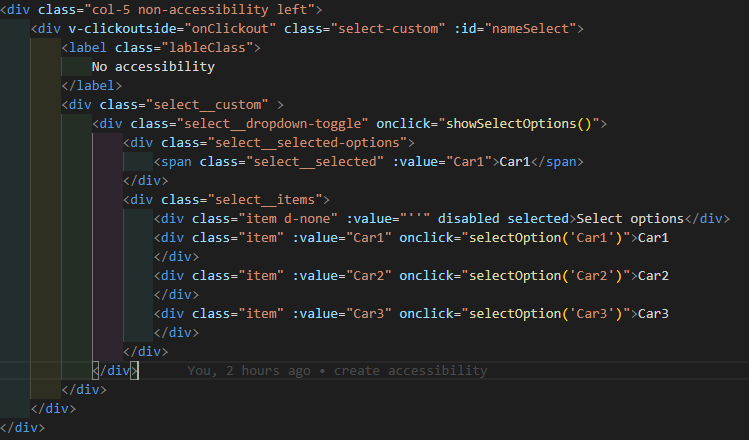
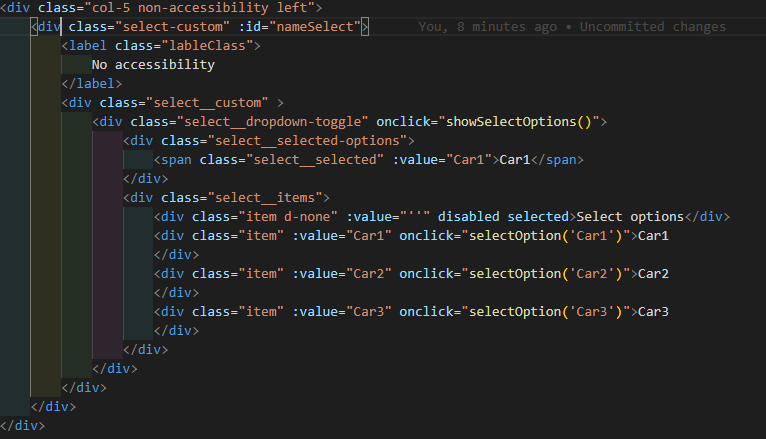
update select box

Changed region(s): [[0.0, 0.0, 0.9826, 1.0], [0.2457, 0.8292, 0.6449, 0.8588]]

diff --git a/Select-option/index.html b/Select-option/index.html
@@ -35,6 +35,9 @@
             width: 50%;
             padding: 0 15px;
         }
+        .active {
+            background-color: gray;
+        }
     </style>
 </head>
 <body style="margin-top: 30px">
@@ -42,7 +45,7 @@
     <a href="../index.html" type="button" class="btn btn-primary" style="margin-bottom: 10px;">Back</a>
         <div class="row" style="height: 200px;">
             <div class="col-5 non-accessibility left">
-                <div v-clickoutside="onClickout" class="select-custom" :id="nameSelect">
+                <div class="select-custom" :id="nameSelect">
                     <label class="lableClass">
                         No accessibility
                     </label>
@@ -68,13 +71,21 @@
                 <button type="button" class="btn btn-primary" onclick="handleClick()">Có accessibility</button>
             </div>
             <div class="col-5 accessibility right" style="display: none">
-                <label for="" style="display: block;">Accessibility</label>
-                <select name="" id="" style="width: 50%">
-                    <option value="1">Car1</option>
-                    <option value="2">Car2</option>
-                    <option value="3">Car3</option>
-                    <option value="4">Car4</option>
-                </select>
+                <div class="select-custom" :id="nameSelect">
+                    <label class="lableClass">
+                        Accessibility
+                    </label>
+                    <div class="select__custom" >
+                        <div class="select__dropdown-toggle" onclick="showSelectOptions1()" tabindex="0">
+                            <div class="select__selected-options">
+                                <span class="select__selected" :value="Car1">Car1</span>
+                            </div>
+                            <div class="select__items" id="list-item">
+                        
+                            </div>
+                        </div>
+                    </div>
+                </div>
             </div>
         </div>
         <div class="row">
@@ -96,7 +107,8 @@
             <div class="col-1"></div>
             <div class="col-5 right">
                 <h2>Non-Accessibility</h2>
-                <img src="./select-option2.PNG" alt="">
+                <img src="./select-option2.PNG" alt="" style="margin-bottom: 20px">
+                <img src="./select-option3.PNG" alt="">
             </div>
         </div>
     </div>
@@ -107,6 +119,50 @@
 
     <script>
         var ariaLabel = document.querySelector('.right');
+        var selectBox = document.querySelector('.accessibility .select__dropdown-toggle');
+        let currentItem = 0;
+        let listItemDropdown = [
+            { name: "Car 1" , value: "car1" },
+            { name: "Car 2" , value: "car2" },
+            { name: "Car 3" , value: "car3" }
+        ]
+        selectBox.addEventListener("keydown", function (e) {
+            if (e.keyCode === 13) {  //checks whether the pressed key is "Enter"
+                showSelectOptions1();
+                document.querySelector('.accessibility .select__selected-options .select__selected').innerHTML = listItemDropdown[currentItem].name;
+            }
+            if (e.keyCode === 38) { // up
+                currentItem -= 1;
+                if (currentItem <= 0) {
+                    currentItem = 0;
+                }
+            }
+            if (e.keyCode === 40) { // down
+                currentItem += 1;
+                if (currentItem >= listItemDropdown.length-1) {
+                    currentItem = listItemDropdown.length-1;
+                }
+            }
+            setActive();
+        });
+
+        function setActive() {
+            $('.accessibility .select__items .item').removeClass('active');
+            document.querySelectorAll('.accessibility .select__items .item')[currentItem].classList.add('active');
+        }
+        function renderList(){
+            const listItem = document.getElementById('list-item');
+            let html = '';
+            listItemDropdown.forEach((list,index) =>{
+                html += `<div class="item" :value="${list.name}" onclick="selectOption1('${index}', '${list.name}')">${list.name}</div>`
+            });
+            
+
+            listItem.innerHTML = html
+        }
+
+        renderList();
+
         function handleClick(val) {
             if (!val) {
                 ariaLabel.style.display = "block";
@@ -132,12 +188,36 @@
                 document.querySelector('.select__items').classList.add("open");
             }
         }
+        function showSelectOptions1() {
+            let optionsScrollHeight = document.querySelector('.accessibility .select__items').scrollHeight;
+            let optionsClientHeight = document.querySelector('.accessibility .select__items').clientHeight;
+            if (optionsClientHeight > 0) {
+                document.querySelector('.accessibility .select__items').style.height = 0;
+                document.querySelector('.accessibility .select__items').classList.remove("open");
+            } else {
+                document.querySelector('.accessibility .select__items').style.height = optionsScrollHeight + 'px';
+                if (optionsScrollHeight > 350) {
+                    document.querySelector('.accessibility .select__items').style.overflowY = 'scroll';
+                }
+                document.querySelector('.accessibility .select__items').classList.add("open");
+            }
+        }
 
         function selectOption(val) {
             document.querySelector('.select__items .item').classList.add('no-hover');
             document.querySelector('.select__selected-options .select__selected').innerHTML = val;
+            this.setActive();
             setTimeout(() => {
                 document.querySelector('.select__items .item').classList.remove('no-hover');
+            }, 500);
+        }
+        function selectOption1(index, name) {
+            currentItem = index
+            document.querySelector('.accessibility .select__items .item').classList.add('no-hover');
+            document.querySelector('.accessibility .select__selected-options .select__selected').innerHTML = name;
+            this.setActive();
+            setTimeout(() => {
+                document.querySelector('.accessibility .select__items .item').classList.remove('no-hover');
             }, 500);
         }
     </script>

diff --git a/Role/index.html b/Role/index.html
@@ -56,6 +56,9 @@
       <div class="col-5 right">
         <h2>Có role và tabindex</h2>
         <img src="./role2.PNG" alt="">
+        <a href="https://developer.mozilla.org/en-US/docs/Web/Accessibility/ARIA/Roles#:~:text=The%20ARIA%20img%20role%20can,considered%20as%20a%20single%20image.&text=It%20is%20normally%20used%20in%20conjunction%20with%20the%20list%20role,primary%20content%20of%20a%20document.">
+          Xem thêm..
+        </a>
       </div>
     </div>
   </div>

diff --git a/Aria-lable/index.html b/Aria-lable/index.html
@@ -52,6 +52,9 @@
       <div class="col-5 right" style="margin-left: -60px;">
         <h2>Có aria lable</h2>
         <img src="./aria-lable2.PNG" alt="">
+        <a href="https://developer.mozilla.org/en-US/docs/Web/Accessibility/ARIA/ARIA_Techniques/Using_the_aria-label_attribute">
+          Xem thêm..
+        </a>
       </div>
       <div class="col-1"></div>
     </div>

diff --git a/TabIndex/index.html b/TabIndex/index.html
@@ -58,6 +58,9 @@
       </div>
       <div class="col-5 right">
         <img src="./tab-index2.PNG" alt="">
+        <a href="https://developer.mozilla.org/en-US/docs/Web/HTML/Global_attributes/tabindex">
+          Xem thêm..
+        </a>
       </div>
     </div>
   </div>
